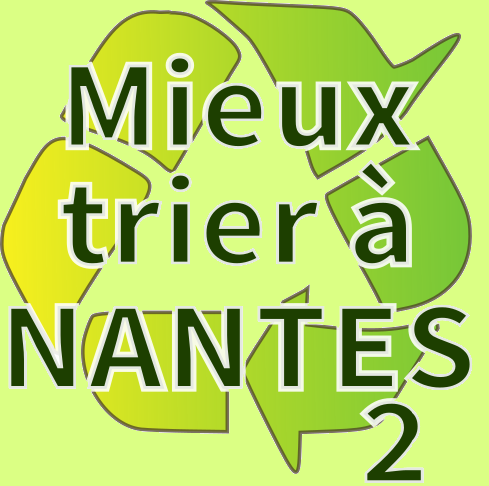
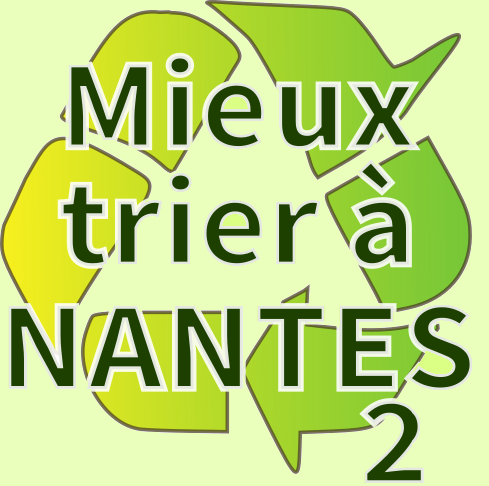
changement couleur fond

diff --git a/www/resources/datas/nantes/AdvicesDatas.js b/www/resources/datas/nantes/AdvicesDatas.js
@@ -78,7 +78,7 @@ var _advicesDatas = [{
 		"descr_en": "Cork caps are recyclable but not recycled. They are recovered by the association 'Cancer 44' (20 tonnes of cork stoppers harvested in 2012). The deposit occurs in a volunteer at 52 Rue du Château d'Eau in La Chapelle sur Erdre."
 	}, {
 		"code": "cons_allu",
-		"nom": "L'aluminium se recycle à 100% ! ",
+		"nom": "L'aluminium se recycle à 100%",
 		"nom_en": "Aluminium can be recycled to 100%!",
 		"descr": "Il peut être recyclé à l'infini sans perdre ses caractéristiques physiques.",
 		"descr_en": "It can be recycled infinitely without losing its physical characteristics."
@@ -162,19 +162,19 @@ var _advicesDatas = [{
 		"descr_en": "These are toxic because contain some mercury. That is why we must bring them to recycling center or sales points (Supermarkets, DIY stores ...)."
 	}, {
 		"code": "cons_sansbouchon",
-		"nom": "Que faire du bouchon / couvercle ?",
+		"nom": "Que faire du bouchon / couvercle…",
 		"nom_en": "What cap / lid?",
 		"descr": "Le bouchon/couvercle doit être trié séparément (même s'il peut être trié). <br/>Voir déchet<i> Bouchon plastique'</i> et déchet<i> 'Couvercle métallique'</i>.",
 		"descr_en": "The cap / lid must be ordered separately (although it can be sorted). See <br/> waste <i> Plastic cap '</ i> and waste <i>' Metal cover '</ i>."
 	}, {
 		"code": "cons_capsulelait",
-		"nom": "Que faire de la capsule métallique (opercule) ?",
-		"nom_en": "What of the metal cap ?",
+		"nom": "Que faire de l'opercule…",
+		"nom_en": "What of the metal cap?",
 		"descr": "La capsule doit être mis dans les déchets ménagers ('bac bleu' ou 'sac bleu'). Ils sont rejetées par le processus de tri du fait de leur taille.",
 		"descr_en": "The capsule should be placed in household waste ('blue box' or 'blue bag'). they are rejected by the sorting process due to their size."
 	}, {
 		"code": "cons_potsmoutarde",
-		"nom": "Les verres des pots de moutarde et nutella",
+		"nom": "Les verres des pots de moutarde et Nutella",
 		"nom_en": "The glasses mustard pots and nutella",
 		"descr": "Les pots de moutarde et de Nutella (qui peuvent être transformés en verre à boire) peuvent être recyclés (conseil AlloPropreté 05/2014).",
 		"descr_en": "Mustard Pots and Nutella (which can be turned into drinking glass) can be recycled (board AlloPropreté 05/2014)."
@@ -216,13 +216,13 @@ var _advicesDatas = [{
 		"descr_en": "The Tetra Pak recycling: cardboard is collected, the rest is rarely recovered. Preferred glass packaging."
 	}, {
 		"code": "cons_distrisac_relais",
-		"nom": "Retrait de sacs en relais (3 rouleaux par retrait, 2 retraits par an)",
+		"nom": "Retrait de sacs en relais - 3 rouleaux par retrait, 2 retraits par an",
 		"nom_en": "Relay bags withdrawal (3 rolls per withdrawal, two withdrawals per year)",
 		"descr": "Les relais sont des lieux de réapprovisionnement destinés à dépanner : vous pouvez retirer 3 rouleaux de sacs (bleus et/ou jaunes). Vous pouvez vous y rendre 2 fois par an.",
 		"descr_en": "Relays are restocking places for help: You can remove 3 rolls of bags (blue and / or yellow). You can go there 2 times a year."
 	}, {
 		"code": "cons_distrisac_achat",
-		"nom": "Achats de sacs Trisacs (2,20 € le rouleau de 30 sacs)",
+		"nom": "Achats de sacs Trisacs",
 		"nom_en": "Trisacs shopping bags (2.20 € the 30 bags roll)",
 		"descr": "- en supermarché : Leclerc Paridis, Super U Dalby, Carrefour Market Rond Point de Vannes, Intermarché Pitre Chevalier.<br/>- dans des distributeurs automatiques : devant la mairie de Chantenay, sous le marché de Talensac, dans le hall de la piscine Jules Verne, dans le hall de la piscine petite Amazonie.",
 		"descr_en": "- Supermarket: Paridis Leclerc, Super U Dalby, Carrefour Market roundabout Vannes, Intermarché <br/> Pitre Chevalier - in vending machines. Outside the town hall of Chantenay under the Talensac market in the pool hall Jules Verne, in the lobby of the small pool Amazon."
@@ -240,7 +240,7 @@ var _advicesDatas = [{
 		"descr_en": "Only wash the sorted elements (this is done in the sorting centers). Simply empty."
 	}, {
 		"code": "cons_alloproprete",
-		"nom": "Des questions ? 02 40 41 9000",
+		"nom": "Des questions ... 02 40 41 9000",
 		"nom_en": "Questions ? 02 40 41 9000",
 		"descr": "AlloNantes est un numéro gratuit pour les Nantais (notamment pour les questions sur le tri). Ouvert de 8h à 19h du lundi au vendredi, et le samedi de 8h à 13h.",
 		"descr_en": "AlloNantes is a free number for Nantais (including questions about sorting). Open from 8 am to 19h from Monday to Friday, and Saturday from 8 to 13h."
@@ -288,7 +288,7 @@ var _advicesDatas = [{
 		"descr_en": "Present your tray before 6 am or before."
 	}, {
 		"code": "cons_proximite",
-		"nom": "Des questions ? 0800 800 868",
+		"nom": "Des questions ... 0800 800 868",
 		"nom_en": "Questions ? 0800 800 868",
 		"descr": "Vous habitez une autre commune de la métropole, contactez votre pôle de proximité, du lundi au vendredi de 8h30 à 12h30 et de 13h30 à 17h30. C'est un numéro gratuit depuis un poste fixe.<br/>Pôle Erdre et Loire : 02 28 20 22 00, Pôle Erdre-et-Cens : 02 51 83 65 00, Pôle Loire, Sèvre et Vignoble : 02 72 01 26 00, Pôle Loire-Chézine : 02 28 03 41 50, Pôle Nantes-Loire : 02 51 86 54 00, Pôle Nantes-Ouest : 02 28 03 47 00, Pôle Sud-Ouest : 02 28 00 16 00.",
 		"descr_en": "You live in another town of the metropolis, contact your nearby pole, Monday to Friday from 8:30 to 12:30 and 13:30 to 17:30. This is a free number from a landline <br/> Pole Erdre and Loire. 02 28 20 22 00, pole-and-Erdre Cens: 02 51 83 65 00, Pole Loire, Sevre and Vineyard 02 72 01 26 00 Pole Loire-Chézine 02 March 28 41 50 Pole-Loire Nantes 02 51 86 54 00 Pole Nantes West: Feb. 28, 03 47 00, Pole Southwest: February 28 00 16 00."
@@ -340,13 +340,13 @@ var _advicesDatas = [{
 		"descr_en": "Put the oil in a bottle you drop in the blue bag or in the blue bin."
 	}, {
 		"code": "cons_spirale",
-		"nom": "Doit-on supprimer les spirales ?",
+		"nom": "Doit-on supprimer les spirales ...",
 		"nom_en": "Should we remove the spirals ?",
 		"descr": "Non ce n'est pas obligatoire.",
 		"descr_en": "No this is not mandatory. "
 	}, {
 		"code": "cons_bouteillepaspet",
-		"nom": "Peut-on recycler les nouvelles bouteilles plastiques&nbsp;?",
+		"nom": "Peut-on recycler les nouvelles bouteilles plastiques ...",
 		"nom_en": "Can the new plastic bottles be recycled ?",
 		"descr": "Selon les consignes de Nantes Métropole (04/2017) les nouvelles plastiques (celles qui sont brillantes, qui ne sont pas en PET) peuvent être mises au recyclage.",
 		"descr_en": "According to the instructions of Nantes Métropole (04/2017) the new plastics (those which are brilliant, which are not in PET) can be recycled."

diff --git a/www/resources/datas/nantes/StructuresDatas.js b/www/resources/datas/nantes/StructuresDatas.js
@@ -2591,6 +2591,32 @@ var _structuresDatas = [{
 		"cartePopuptext_en": "Bulk sale<br/>O'Bocal"
 	}, {
 		"code": "stco_ventevrac19",
+		"latitude": "47.086343",
+		"longitude": "-1.267966",
+		"modesCollecte": "ventevrac",
+		"type": " Vente au vrac",
+		"type_en": " Bulk sale",
+		"statut": "Entreprise",
+		"descr": "Grand choix de produits biologiques.<br/><br/>Produits disponibles : bocal,farine,sucre,pâte,graine,lumineuse,biscuit,céréale,fromage,fruit sec,shampoing,savon,gel douche,liquide vaisselle,lessive,lingette",
+		"descr_en": "Wide choice of organic products.<br/><br/>Products available : jar, flour, sugar, pulp, seed, bright, biscuit, cereal, cheese, dried fruit, shampoo, soap, shower gel, dishwashing liquid, laundry, wipe",
+		"nom": "naturéO La Chapelle-sur-Erdre",
+		"nom_en": "naturéO La Chapelle-sur-Erdre",
+		"adresseTemp": "ZAC De Toutes Joies, Zone Commerciale Les Allées Gestina  44190 GETIGNE",
+		"url": "http://www.natureo-bio.fr/magasin-la-chapelle-sur-erdre",
+		"src": "MieuxTrierANantes 04/17",
+		"plagesHoraires": "0101-3112_lu+ma+me+je+ve+sa_09h30-20h00",
+		"sous_zone": "GETIGNE",
+		"mots_cles": "vente,vrac,natureo,chapelle,sur,erdre,bocal,farine,sucre,pate,graine,lumineuse,biscuit,cereale,fromage,fruit,sec,shampoing,savon,gel,douche,liquide,vaisselle,lessive,lingette",
+		"produits": "bocal,farine,sucre,pâte,graine,lumineuse,biscuit,céréale,fromage,fruit sec,shampoing,savon,gel douche,liquide vaisselle,lessive,lingette",
+		"mots_cles_en": "sale,bulk,natureo,chapelle,sur,erdre,jar,flour,sugar,pulp,seed,bright,biscuit,cereal,cheese,dried,fruit,shampoo,soap,shower,gel,dishwashing,liquid,laundry,wipe",
+		"produits_en": "jar, flour, sugar, pulp, seed, bright, biscuit, cereal, cheese, dried fruit, shampoo, soap, shower gel, dishwashing liquid, laundry, wipe",
+		"image": "paperbag.png",
+		"photos": "www.mieuxtrieranantes.fr/docs/medias/VenteEnVrac/natureO/natureO_01.jpg,www.mieuxtrieranantes.fr/docs/medias/VenteEnVrac/natureO/natureO_02.jpg,www.mieuxtrieranantes.fr/docs/medias/VenteEnVrac/natureO/natureO_03.jpg,www.mieuxtrieranantes.fr/docs/medias/VenteEnVrac/natureO/natureO_04.jpg,www.mieuxtrieranantes.fr/docs/medias/VenteEnVrac/natureO/natureO_05.jpg",
+		"carteMarqueur": "6",
+		"cartePopuptext": "Vente au vrac<br/>naturéO La Chapelle-sur-Erdre",
+		"cartePopuptext_en": "Bulk sale<br/>naturéO La Chapelle-sur-Erdre"
+	}, {
+		"code": "stco_ventevrac20",
 		"latitude": "47.299480",
 		"longitude": "-1.550516",
 		"modesCollecte": "ventevrac",
@@ -2598,22 +2624,23 @@ var _structuresDatas = [{
 		"type_en": " Bulk sale",
 		"statut": "Entreprise",
 		"descr": "Grand choix de produits biologiques.<br/><br/>Produits disponibles : bocal,farine,sucre,pâte,graine,lumineuse,biscuit,céréale,fromage,fruit sec,shampoing,savon,gel douche,liquide vaisselle,lessive,lingette",
-		"descr_en": "Wide choice of organic products. <br/><br/>Products available : jar, flour, sugar, pulp, seed, bright, biscuit, cereal, cheese, dried fruit, shampoo, soap, shower gel, dishwashing liquid, laundry, wipe",
-		"nom": "NaturéO ",
-		"nom_en": "NaturéO ",
-		"adresseTemp": "Centre commercial Géant Casino Viv’Erdre, ZAC La Bérangerais, Rue d’Utrecht  44240 LA CHAPELLE-SUR-ERDRE ",
+		"descr_en": "Wide choice of organic products.<br/><br/>Products available : jar, flour, sugar, pulp, seed, bright, biscuit, cereal, cheese, dried fruit, shampoo, soap, shower gel, dishwashing liquid, laundry, wipe",
+		"nom": "naturéO Gétigné",
+		"nom_en": "naturéO Gétigné",
+		"adresseTemp": "Rue D'Utrecht, Centre Commercial Géant Casino Viv'Erdre - Zac La Bérangerais  44240 LA CHAPELLE-SUR-ERDRE ",
 		"url": "http://www.natureo-bio.fr/magasin-la-chapelle-sur-erdre",
 		"src": "MieuxTrierANantes 04/17",
 		"plagesHoraires": "0101-3112_lu+ma+me+je+ve+sa_09h30-20h00",
 		"sous_zone": "LA CHAPELLE-SUR-ERDRE ",
-		"mots_cles": "vente,vrac,natureo,,bocal,farine,sucre,pate,graine,lumineuse,biscuit,cereale,fromage,fruit,sec,shampoing,savon,gel,douche,liquide,vaisselle,lessive,lingette",
+		"mots_cles": "vente,vrac,natureo,getigne,bocal,farine,sucre,pate,graine,lumineuse,biscuit,cereale,fromage,fruit,sec,shampoing,savon,gel,douche,liquide,vaisselle,lessive,lingette",
 		"produits": "bocal,farine,sucre,pâte,graine,lumineuse,biscuit,céréale,fromage,fruit sec,shampoing,savon,gel douche,liquide vaisselle,lessive,lingette",
-		"mots_cles_en": "sale,bulk,natureo,,jar,flour,sugar,pulp,seed,bright,biscuit,cereal,cheese,dried,fruit,shampoo,soap,shower,gel,dishwashing,liquid,laundry,wipe",
+		"mots_cles_en": "sale,bulk,natureo,getigne,jar,flour,sugar,pulp,seed,bright,biscuit,cereal,cheese,dried,fruit,shampoo,soap,shower,gel,dishwashing,liquid,laundry,wipe",
 		"produits_en": "jar, flour, sugar, pulp, seed, bright, biscuit, cereal, cheese, dried fruit, shampoo, soap, shower gel, dishwashing liquid, laundry, wipe",
 		"image": "paperbag.png",
+		"photos": "www.mieuxtrieranantes.fr/docs/medias/VenteEnVrac/natureO/natureO_01.jpg,www.mieuxtrieranantes.fr/docs/medias/VenteEnVrac/natureO/natureO_02.jpg,www.mieuxtrieranantes.fr/docs/medias/VenteEnVrac/natureO/natureO_03.jpg,www.mieuxtrieranantes.fr/docs/medias/VenteEnVrac/natureO/natureO_04.jpg,www.mieuxtrieranantes.fr/docs/medias/VenteEnVrac/natureO/natureO_05.jpg",
 		"carteMarqueur": "6",
-		"cartePopuptext": "Vente au vrac<br/>NaturéO ",
-		"cartePopuptext_en": "Bulk sale<br/>NaturéO "
+		"cartePopuptext": "Vente au vrac<br/>naturéO Gétigné",
+		"cartePopuptext_en": "Bulk sale<br/>naturéO Gétigné"
 	}, {
 		"code": "3143",
 		"zone": "hnnl",
